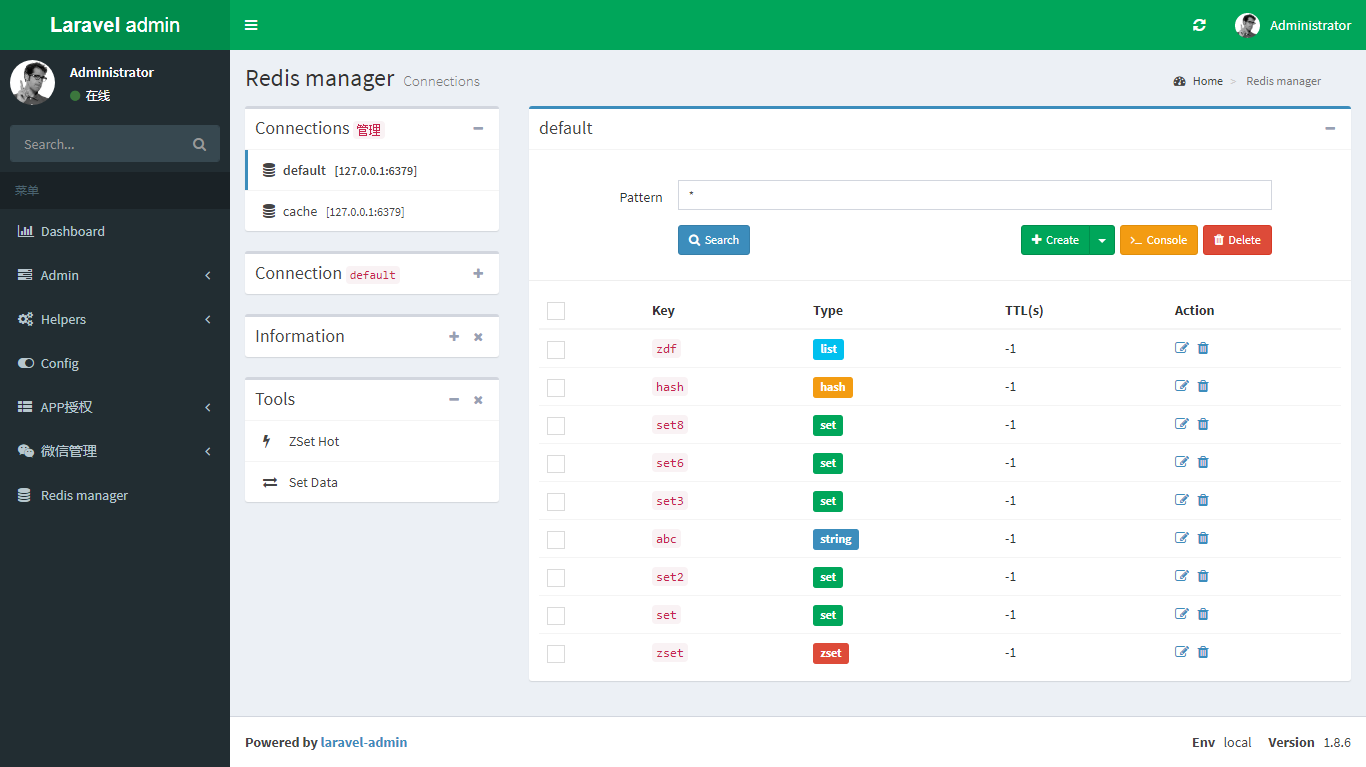
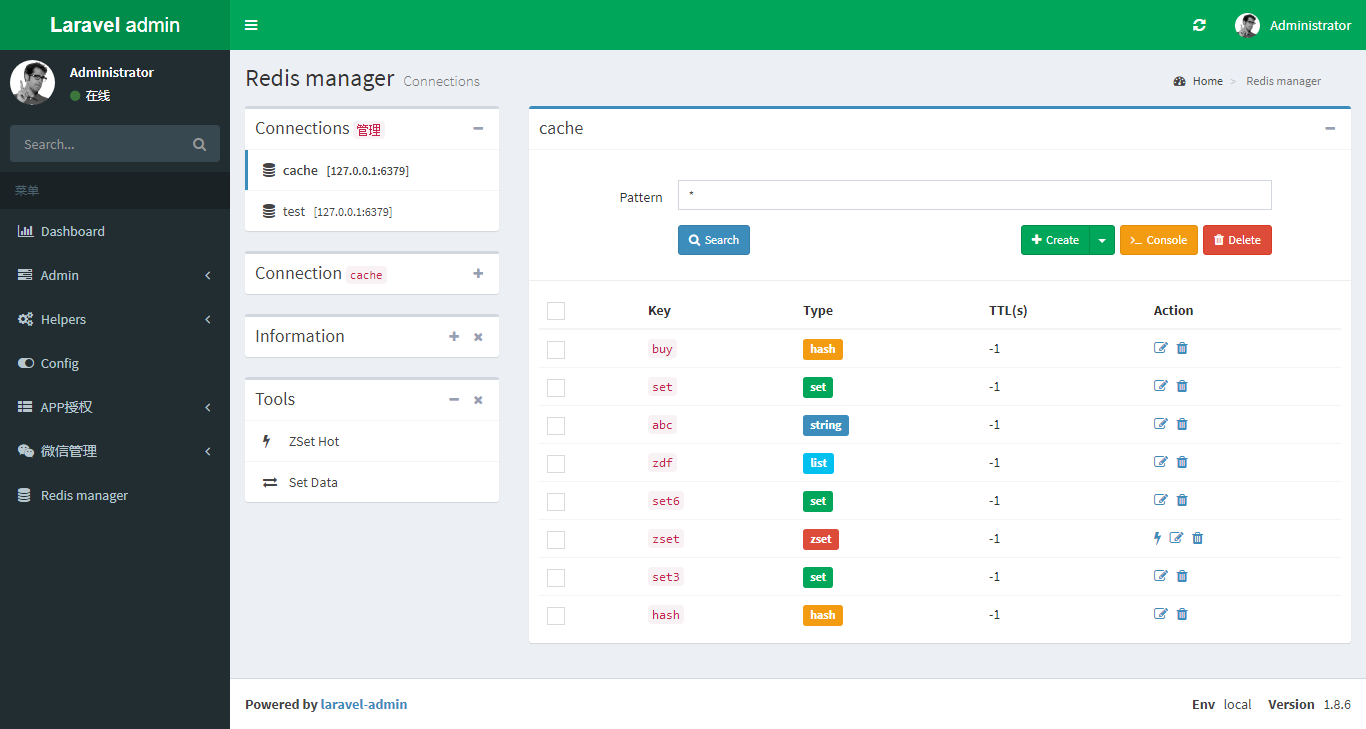
功能优化

diff --git a/src/manager/RedisManager.php b/src/manager/RedisManager.php
@@ -21,10 +21,8 @@ use Lake\Admin\RedisManager\DataType\Lists;
 use Lake\Admin\RedisManager\DataType\Sets;
 use Lake\Admin\RedisManager\DataType\SortedSets;
 use Lake\Admin\RedisManager\DataType\Strings;
-
 use Lake\Admin\RedisManager\Traits\BootExtension;
 use Lake\Admin\RedisManager\Model\Connection as ConnectionModel;
-
 
 /**
  * Class RedisManager.
@@ -134,11 +132,13 @@ class RedisManager extends Extension
     /**
      * Get connection collections.
      *
+     * laravel redis config: 
+     * $arr = config('database.redis');
+     *
      * @return Collection
      */
     public function getConnections()
     {
-        // $arr = config('database.redis');
         $arr = ConnectionModel::where('status', 1)
             ->get(['name', 'url', 'host', 'password', 'port', 'database'])
             ->toArray();
@@ -172,8 +172,9 @@ class RedisManager extends Extension
 
         $connections = $this->getConnections();
         if (!isset($connections[$this->connection])) {
-            $url = route('lake-redis-index');
-            $response = response('', 200, ['Location' => $url]);
+            $response = response('', 200, [
+                'Location' => route('lake-redis-index')
+            ]);
             throw new HttpResponseException($response);
         }
         

diff --git a/src/resources/views/tool/setdata.blade.php b/src/resources/views/tool/setdata.blade.php
@@ -49,6 +49,8 @@
                         <option value="sinterstore" @if(isset($params['action']) && $params['action'] == 'sinterstore')selected="selected"@endif>Sinterstore</option>
                         <option value="sunionstore" @if(isset($params['action']) && $params['action'] == 'sunionstore')selected="selected"@endif>Sunionstore</option>
                     </select>
+                    
+                    <button type="button" class="btn btn-danger zsethot-exchange">Exchange</button>
             
                     <button type="button" class="btn btn-primary zsethot-submit">Submit</button>
                 </div>
@@ -112,6 +114,16 @@
             } else {
                 $('.tool-storekey').addClass('hidden');
             }
+        });
+        
+        $('.zsethot-exchange').on('click', function (event) {
+            event.preventDefault();
+            
+            var key1 = $('input.key1').val();
+            var key2 = $('input.key2').val();
+            
+            $('input.key1').val(key2);
+            $('input.key2').val(key1).trigger('focus');
         });
         
         $('.zsethot-submit').on('click', function (event) {

diff --git a/src/resources/views/edit/set.blade.php b/src/resources/views/edit/set.blade.php
@@ -95,6 +95,9 @@
                         success: function(result) {
                             toastr.success('Push success.');
                             $.pjax.reload('#pjax-container');
+                        },
+                        error: function() {
+                            toastr.success('Push error.');
                         }
                     });
                 }
@@ -117,6 +120,9 @@
                     success: function(result) {
                         toastr.success('List item removed');
                         $.pjax.reload('#pjax-container');
+                    },
+                    error: function() {
+                        toastr.success('List item remove error.');
                     }
                 });
 

diff --git a/src/resources/views/index.blade.php b/src/resources/views/index.blade.php
@@ -78,6 +78,11 @@
                     </td>
                     <td>{{ $key[2] }}</td>
                     <td>
+                        @if($type=='zset')
+                        <a href="{{ route('lake-redis-tool-zset-hot', ['key' => $key[0], 'conn' => $conn]) }}"><i class="fa fa-bolt"></i></a>
+                        &nbsp;
+                        @endif
+                        
                         <a href="{{ route('lake-redis-edit-key', ['key' => $key[0], 'conn' => $conn]) }}"><i class="fa fa-edit"></i></a>
                         &nbsp;
                         <a href="#" class="key-delete" data-key="{{ $key[0] }}"><i class="fa fa-trash"></i></a>

diff --git a/src/resources/views/edit/nil.blade.php b/src/resources/views/edit/nil.blade.php
@@ -2,11 +2,11 @@
 
 @section('page')
 
-    <div class="alert alert-warning alert-dismissible">
-        <button type="button" class="close" data-dismiss="alert" aria-hidden="true">×</button>
-        <h4><i class="icon fa fa-warning"></i>Key [{{ request('key') }}] not exists.</h4>
+<div class="alert alert-warning alert-dismissible">
+    <button type="button" class="close" data-dismiss="alert" aria-hidden="true">×</button>
+    <h4><i class="icon fa fa-warning"></i>Key [{{ request('key') }}] not exists.</h4>
 
-    </div>
+</div>
 <!-- /.box-body -->
 
 @endsection

diff --git a/src/resources/views/edit/list.blade.php b/src/resources/views/edit/list.blade.php
@@ -158,6 +158,9 @@
                 success: function(result) {
                     toastr.success('Push success.');
                     $.pjax({container:'#pjax-container', url: '{{ route('lake-redis-edit-key') }}' + '?conn={{ $conn }}&key='+key });
+                },
+                error: function() {
+                    toastr.success('Push error.');
                 }
             });
 

diff --git a/src/manager/Controller/Connection.php b/src/manager/Controller/Connection.php
@@ -131,7 +131,7 @@ class Connection
         $form->text('host')->rules('required');
         $form->text('password');
         $form->text('port')->rules('required');
-        $form->text('database')->rules('required');
+        $form->text('database')->rules('required|numeric');
         $form->radio('status', '状态')
             ->options([
                 '1' => '启用',

diff --git a/src/resources/views/edit/hash.blade.php b/src/resources/views/edit/hash.blade.php
@@ -166,6 +166,9 @@
                     success: function(result) {
                         toastr.success('Add success.');
                         $.pjax.reload('#pjax-container');
+                    },
+                    error: function() {
+                        toastr.success('Add error.');
                     }
                 });
 

diff --git a/src/resources/views/edit/zset.blade.php b/src/resources/views/edit/zset.blade.php
@@ -166,6 +166,9 @@
                     success: function(result) {
                         toastr.success('Add success.');
                         $.pjax.reload('#pjax-container');
+                    },
+                    error: function() {
+                        toastr.success('Add error.');
                     }
                 });
 

diff --git a/src/manager/Action/Conn.php b/src/manager/Action/Conn.php
@@ -13,7 +13,7 @@ class Conn extends AbstractTool
         $html = <<<EOF
 <div class="btn-group">   
     <a class="btn btn-sm bg-green" href="{$url}" rel="external nofollow" >
-        Manager
+        <i class="fa fa-database"></i>&nbsp;&nbsp;Manager
     </a> 
 </div> 
         
